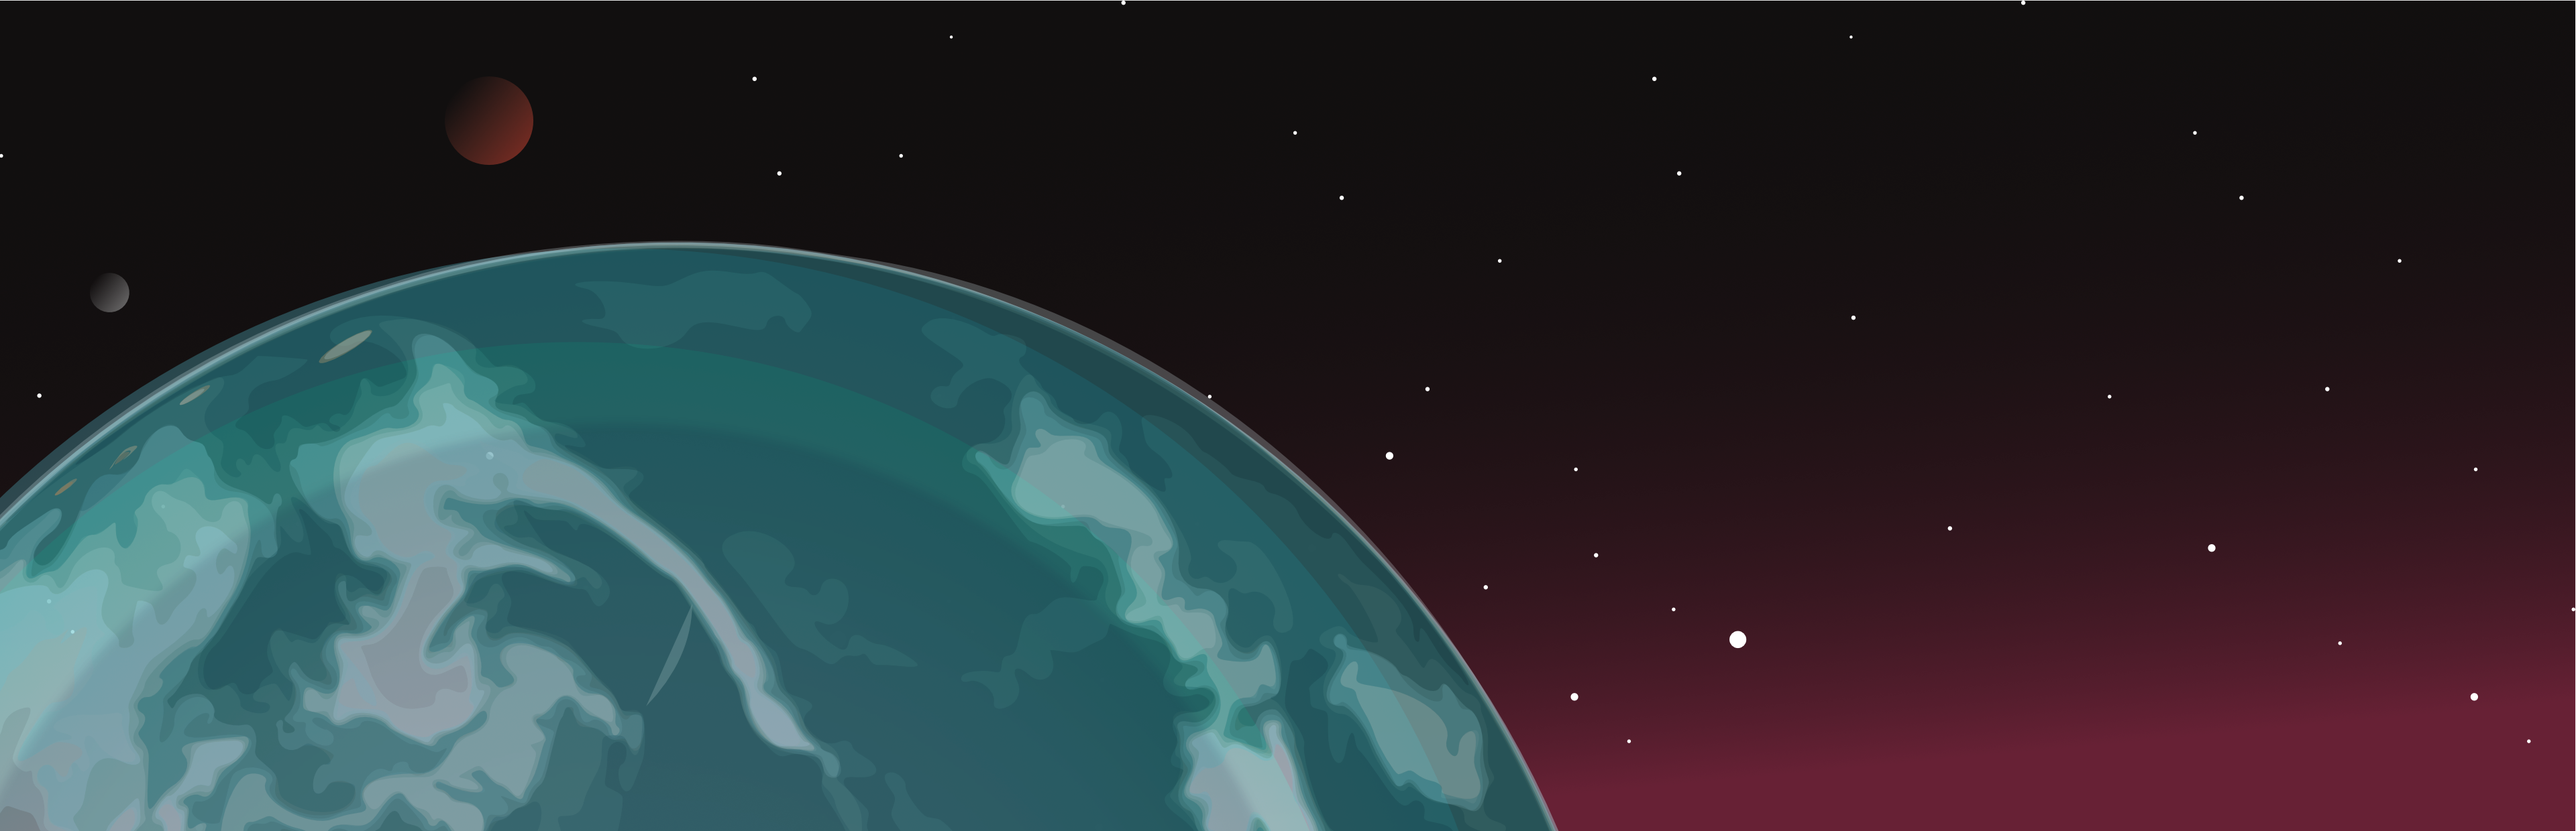
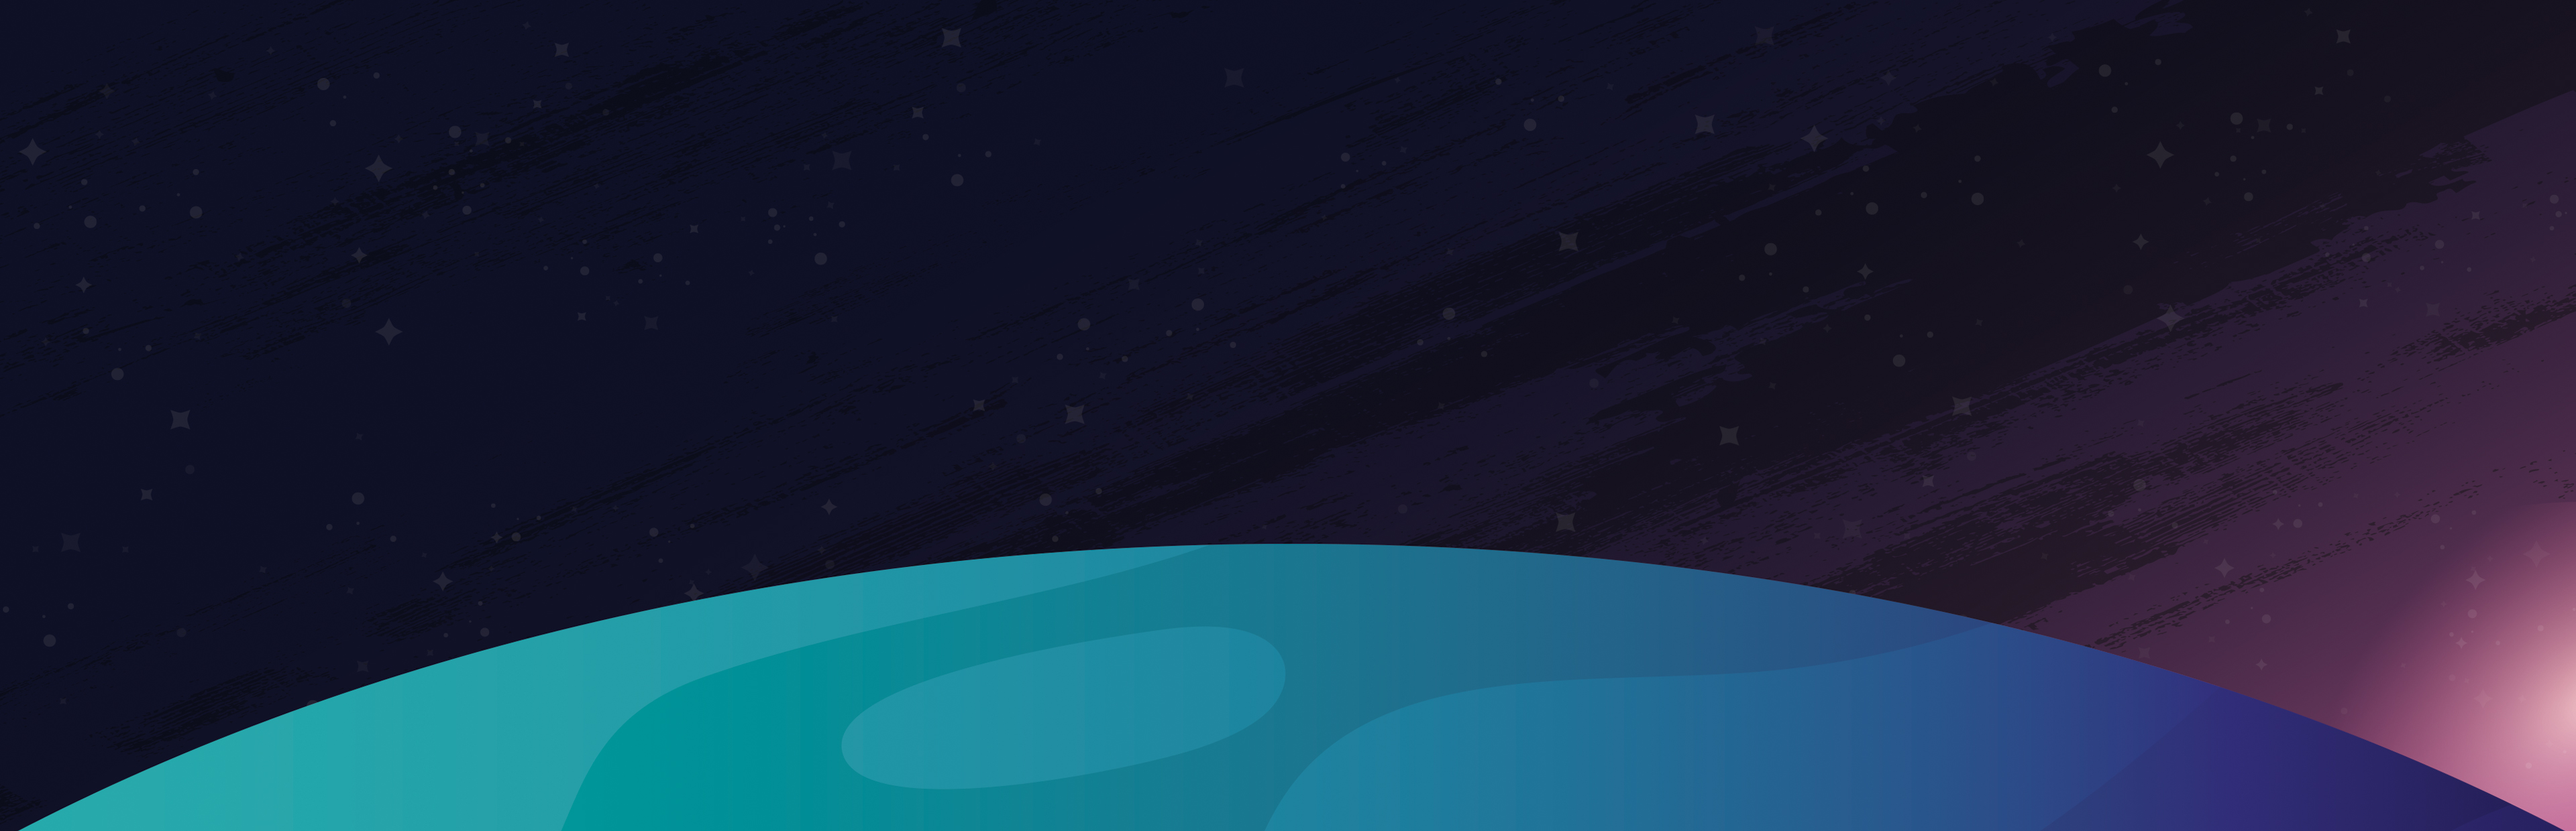
Update to Capsule assets.

diff --git a/hope/presskit.html b/hope/presskit.html
@@ -45,7 +45,7 @@ logo_assets_url: https://www.dropbox.com/scl/fi/59qch0r0gpp1th3m0fyoq/hope-logo-
   <p>hope, sci-fi, point &amp; click, adventure, 2d, vector graphics, episodic, singleplayer, choices matter, female protagonist, dystopian, story rich</p>
 
   <h3>Steam URL</h3>
-  <a href="https://store.steampowered.com/app/3072180/Hope_A_Sky_Full_of_Ghosts">https://store.steampowered.com/app/3072180/Hope_A_Sky_Full_of_Ghosts</a>
+  <a href="https://store.steampowered.com/app/3072180/Hope_A_Sky_Full_of_Ghosts?utm_source=PressKit">https://store.steampowered.com/app/3072180/Hope_A_Sky_Full_of_Ghosts?utm_source=PressKit</a>
 
   <h3>Screenshots</h3>
   <p>Download a total of 16 screenshots (1422x800) as a <a href="{{ page.screenshots_url }}">.zip file (3.6 MB)</a></p>
@@ -193,7 +193,7 @@ logo_assets_url: https://www.dropbox.com/scl/fi/59qch0r0gpp1th3m0fyoq/hope-logo-
   <br/>
   <div class="row">
     <div class="columns">
-        <img alt="library-hero-bg" title="library-hero-bg" width="128" height="128" src="assets/library-hero-bg.png" />
+        <img alt="library-hero-bg" title="library-hero-bg" width="300" src="assets/library-hero-bg.png" />
     </div>
   </div>
 
